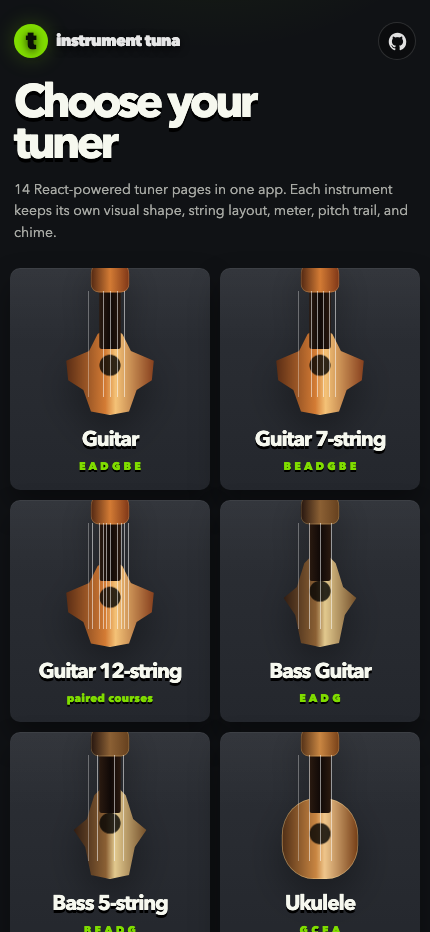
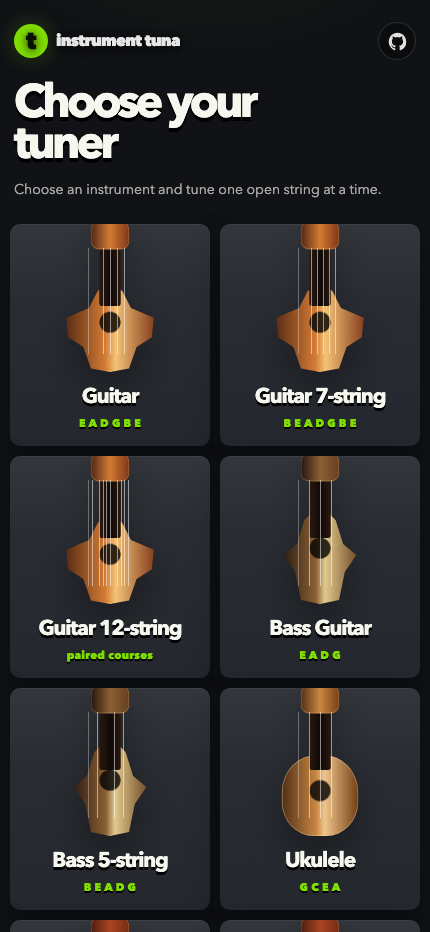
Redraw instrument heads from references

Changed region(s): [[0.0, 0.1867, 0.9977, 1.0]]

diff --git a/src/main.jsx b/src/main.jsx
@@ -24,11 +24,82 @@ function clamp(value, min, max) { return Math.min(max, Math.max(min, value)); }
 function meterPosition(cents) { return 50 + clamp(cents, -METER_RANGE_CENTS, METER_RANGE_CENTS) * (METER_TRAVEL_PERCENT / METER_RANGE_CENTS); }
 function pointerColorForCents(cents) { return Math.abs(cents) <= 5 ? 'var(--green)' : Math.abs(cents) <= 15 ? 'var(--yellow)' : 'var(--red)'; }
 function trailColorForCents(cents) { return Math.abs(cents) <= 5 ? TRAIL_COLORS.green : Math.abs(cents) <= 15 ? TRAIL_COLORS.yellow : TRAIL_COLORS.red; }
-function normalizeStringIds(strings) {
+const LAYOUTS = {
+  'guitar-6': [
+    ['left', 2], ['left', 1], ['left', 0], ['right', 0], ['right', 1], ['right', 2]
+  ],
+  'guitar-7': [
+    ['left', 2], ['left', 1], ['left', 0], ['right', 0], ['right', 1], ['right', 2], ['right', 3]
+  ],
+  'guitar-12': [
+    ['left', 5], ['left', 4], ['left', 3], ['left', 2], ['left', 1], ['left', 0],
+    ['right', 0], ['right', 1], ['right', 2], ['right', 3], ['right', 4], ['right', 5]
+  ],
+  'bass-4': [
+    ['left', 3], ['left', 2], ['left', 1], ['left', 0]
+  ],
+  'bass-5': [
+    ['left', 2], ['left', 1], ['left', 0], ['right', 0], ['right', 1]
+  ],
+  ukulele: [
+    ['left', 1], ['left', 0], ['right', 0], ['right', 1]
+  ],
+  violin: [
+    ['left', 1], ['left', 0], ['right', 0], ['right', 1]
+  ],
+  viola: [
+    ['left', 1], ['left', 0], ['right', 0], ['right', 1]
+  ],
+  cello: [
+    ['left', 1], ['left', 0], ['right', 0], ['right', 1]
+  ],
+  cavaquinho: [
+    ['left', 1], ['left', 0], ['right', 0], ['right', 1]
+  ],
+  mandolin: [
+    ['left', 3], ['left', 2], ['left', 1], ['left', 0], ['right', 0], ['right', 1], ['right', 2], ['right', 3]
+  ],
+  balalaika: [
+    ['left', 0], ['left', 1], ['left', 2]
+  ],
+  'banjo-4': [
+    ['left', 1], ['left', 0], ['right', 0], ['right', 1]
+  ],
+  'banjo-5': [
+    ['left', 0], ['left', 1], ['left', 2], ['right', 0], ['right', 1]
+  ]
+};
+
+function normalizeStringIds(strings, instrumentId) {
   const counts = {};
-  return strings.map((item) => {
+  const layout = LAYOUTS[instrumentId] || [];
+  const maxRow = Math.max(0, ...layout.map((item) => item?.[1] || 0));
+  const custom = {
+    ukulele: { buttonTopBase: 68, buttonSpacing: 114, pegTopBase: 88, pegSpacing: 118 },
+    'bass-4': { buttonTopBase: 58, buttonSpacing: 72, pegTopBase: 64, pegSpacing: 58 },
+    balalaika: { buttonTopBase: 88, buttonSpacing: 58, pegTopBase: 74, pegSpacing: 58 },
+    violin: { buttonTopBase: 116, buttonSpacing: 62, pegTopBase: 80, pegSpacing: 48 },
+    viola: { buttonTopBase: 116, buttonSpacing: 62, pegTopBase: 80, pegSpacing: 48 },
+    cello: { buttonTopBase: 116, buttonSpacing: 62, pegTopBase: 80, pegSpacing: 48 }
+  }[instrumentId] || {};
+  const buttonSpacing = custom.buttonSpacing ?? (strings.length >= 10 ? 36 : strings.length >= 7 ? 52 : strings.length >= 5 ? 70 : strings.length <= 3 ? 58 : 96);
+  const buttonTopBase = custom.buttonTopBase ?? (strings.length <= 3 ? 110 : strings.length >= 10 ? 48 : strings.length >= 7 ? 56 : strings.length >= 5 ? 78 : 76);
+  const pegSpacing = custom.pegSpacing ?? (strings.length >= 10 ? 29 : strings.length >= 7 ? 39 : strings.length >= 5 ? 48 : strings.length <= 3 ? 58 : 56);
+  const pegTopBase = custom.pegTopBase ?? (strings.length <= 3 ? 90 : strings.length >= 10 ? 50 : strings.length >= 7 ? 58 : strings.length >= 5 ? 72 : 72);
+  return strings.map((item, index) => {
     counts[item.note] = (counts[item.note] || 0) + 1;
-    return { ...item, id: `${item.note}-${counts[item.note]}` };
+    const [side, row] = layout[index] || [index % 2 === 0 ? 'left' : 'right', Math.floor(index / 2)];
+    return {
+      ...item,
+      id: `${item.note}-${counts[item.note]}`,
+      buttonLayout: {
+        side,
+        row,
+        maxRow,
+        buttonTop: buttonTopBase + row * buttonSpacing,
+        pegTop: pegTopBase + row * pegSpacing
+      }
+    };
   });
 }
 function hashToId() {
@@ -58,7 +129,7 @@ function Home() {
       </nav>
       <header className="hero">
         <h1>Choose your tuner</h1>
-        <p>14 React-powered tuner pages in one app. Each instrument keeps its own visual shape, string layout, meter, pitch trail, and chime.</p>
+        <p>Choose an instrument and tune one open string at a time.</p>
       </header>
       <section className="instrument-grid" aria-label="Choose an instrument">
         {instrumentList.map((instrument) => <InstrumentCard key={instrument.id} instrument={instrument} />)}
@@ -87,7 +158,7 @@ function InstrumentThumb({ instrument }) {
 
 function Tuner({ id }) {
   const instrument = instruments[id] || instruments['guitar-6'];
-  const strings = useMemo(() => normalizeStringIds(instrument.strings), [instrument]);
+  const strings = useMemo(() => normalizeStringIds(instrument.strings, id), [instrument, id]);
   const [manualString, setManualString] = useState(null);
   const [reading, setReading] = useState(null);
   const [status, setStatus] = useState('Play an open string');
@@ -367,15 +438,13 @@ function ScaleTicks({ activeTick }) {
 }
 
 function NoteButton({ string, index, count, active, onClick }) {
-  const side = index % 2 === 0 ? 'left' : 'right';
-  const row = Math.floor(index / 2);
-  const rows = Math.ceil(count / 2);
-  const top = count >= 10 ? 42 + row * 42 : count >= 7 ? 42 + row * 56 : count >= 5 ? 50 + row * 72 : count <= 3 ? 86 + row * 120 : 58 + row * 96;
+  const layout = string.buttonLayout || fallbackLayout(index, count);
+  const side = layout.side;
+  const top = layout.buttonTop;
   return <button className={`note-button note-${side} ${active ? 'active' : ''}`} style={{ top }} onClick={onClick}><span>{string.key}</span></button>;
 }
 
 function InstrumentVisual({ instrument, strings }) {
-  const rows = Math.ceil(strings.length / 2);
   return (
     <>
       <div className="instrument-body" aria-hidden="true"><div className="body-shine" /><div className="soundhole" /><div className="tailpiece" /></div>
@@ -383,15 +452,23 @@ function InstrumentVisual({ instrument, strings }) {
         <div className="wood" /><div className="brand-text">{instrument.brand}</div><div className="nut" /><div className="fretboard" />
         {strings.map((string, index) => {
           const x = strings.length <= 1 ? 50 : 16 + (68 / (strings.length - 1)) * index;
-          const side = index % 2 === 0 ? 'left' : 'right';
-          const row = Math.floor(index / 2);
-          const top = 54 + row * (rows > 5 ? 32 : rows > 4 ? 38 : 56);
+          const layout = string.buttonLayout || fallbackLayout(index, strings.length);
+          const side = layout.side;
+          const top = layout.pegTop;
           const weight = strings.length >= 10 ? 1 : index < strings.length / 2 ? 2.1 : 1.35;
           return <React.Fragment key={string.id}><div className="string" style={{ '--x': `${x}%`, '--string-weight': `${weight}px` }} /><div className={`peg peg-${side}`} style={{ top }} /></React.Fragment>;
         })}
       </div>
     </>
   );
+}
+
+function fallbackLayout(index, count) {
+  const row = Math.floor(index / 2);
+  const rows = Math.ceil(count / 2);
+  const buttonTop = count >= 10 ? 42 + row * 42 : count >= 7 ? 42 + row * 56 : count >= 5 ? 50 + row * 72 : count <= 3 ? 86 + row * 120 : 58 + row * 96;
+  const pegTop = 54 + row * (rows > 5 ? 32 : rows > 4 ? 38 : 56);
+  return { side: index % 2 === 0 ? 'left' : 'right', buttonTop, pegTop };
 }
 
 function PitchTrail({ notes }) {

diff --git a/src/styles.css b/src/styles.css
@@ -298,3 +298,181 @@ button {
   .instrument-card h2 { font-size: 21px; }
   .instrument-card small { font-size: 11px; }
 }
+
+/* Instrument-specific redraws based on tmp reference screenshots. */
+.instrument-ukulele .instrument-body { display: none; }
+.instrument-ukulele .headstock {
+  width: 158px;
+  height: 332px;
+  bottom: 86px;
+}
+.instrument-ukulele .wood {
+  width: 158px;
+  height: 332px;
+  clip-path: polygon(2% 4%, 35% 4%, 50% 0, 65% 4%, 98% 4%, 98% 73%, 88% 82%, 84% 100%, 16% 100%, 12% 82%, 2% 73%);
+  border-radius: 0;
+  background: radial-gradient(ellipse at 50% 16%, rgba(255, 231, 169, 0.42), transparent 19%), repeating-linear-gradient(90deg, rgba(255,255,255,0.09) 0 2px, transparent 2px 10px), linear-gradient(90deg, var(--wood-2), var(--wood-3) 28%, var(--wood-1) 50%, #d47a32 72%, #8b441f);
+}
+.instrument-ukulele .brand-text {
+  top: 50px;
+  color: rgba(255, 246, 214, 0.94);
+  font-size: 16px;
+}
+.instrument-ukulele .nut { left: 18px; right: 18px; bottom: 78px; }
+.instrument-ukulele .fretboard { left: 34px; right: 34px; bottom: -86px; height: 168px; }
+.instrument-ukulele .string { top: 110px; bottom: -86px; }
+.instrument-ukulele .peg { width: 34px; height: 34px; }
+.instrument-ukulele .peg::before { top: 12px; width: 46px; height: 10px; }
+.instrument-ukulele .peg::after { top: -12px; width: 36px; height: 58px; }
+.instrument-ukulele .peg-left { left: 18px; }
+.instrument-ukulele .peg-right { right: 18px; }
+.instrument-ukulele .peg-left::before { right: 18px; }
+.instrument-ukulele .peg-right::before { left: 18px; }
+.instrument-ukulele .peg-left::after { right: 42px; }
+.instrument-ukulele .peg-right::after { left: 42px; }
+
+.instrument-guitar-6 .headstock {
+  width: 176px;
+  height: 342px;
+}
+.instrument-guitar-6 .wood {
+  width: 176px;
+  height: 342px;
+  clip-path: polygon(22% 0, 78% 0, 88% 25%, 82% 74%, 64% 100%, 36% 100%, 18% 74%, 12% 25%);
+  border-radius: 24px 24px 18px 18px;
+  background: radial-gradient(ellipse at 50% 12%, rgba(255,240,190,0.28), transparent 21%), repeating-linear-gradient(115deg, rgba(255,255,255,0.06) 0 2px, transparent 2px 12px), linear-gradient(90deg, #5b2415, #a94d25 38%, #d18a52 50%, #4c1c12);
+}
+
+.instrument-guitar-7 .headstock,
+.instrument-guitar-12 .headstock {
+  width: 166px;
+  height: 342px;
+}
+.instrument-guitar-7 .wood,
+.instrument-guitar-12 .wood {
+  width: 166px;
+  height: 342px;
+  clip-path: polygon(60% 0, 82% 8%, 76% 100%, 20% 100%, 31% 49%, 36% 10%);
+  border-radius: 20px 28px 10px 12px;
+  background: radial-gradient(ellipse at 50% 20%, rgba(255,255,255,0.12), transparent 24%), linear-gradient(90deg, #070808, #222426 52%, #0b0c0d);
+  border-color: rgba(210, 214, 205, 0.6);
+}
+.instrument-guitar-12 .wood {
+  clip-path: polygon(27% 0, 73% 0, 87% 27%, 78% 100%, 22% 100%, 13% 27%);
+}
+.instrument-guitar-7 .brand-text,
+.instrument-guitar-12 .brand-text {
+  color: rgba(235,238,230,0.72);
+}
+
+.instrument-bass-4 .headstock,
+.instrument-bass-5 .headstock {
+  width: 164px;
+  height: 350px;
+}
+.instrument-bass-4 .wood,
+.instrument-bass-5 .wood {
+  width: 164px;
+  height: 350px;
+  clip-path: polygon(52% 0, 75% 9%, 81% 30%, 71% 86%, 55% 100%, 35% 94%, 31% 62%, 22% 52%, 35% 41%, 34% 11%);
+  border-radius: 45% 34% 18% 25%;
+  background: radial-gradient(circle at 52% 18%, rgba(255,244,208,0.28), transparent 20%), linear-gradient(90deg, #8e602d, #e1bd78 45%, #c68c45 75%, #6e421e);
+}
+.instrument-bass-5 .wood {
+  clip-path: polygon(31% 0, 66% 4%, 85% 42%, 74% 100%, 25% 100%, 12% 40%);
+}
+.instrument-bass-4 .brand-text,
+.instrument-bass-5 .brand-text { color: rgba(72,42,18,0.52); text-shadow: none; }
+
+.instrument-violin .headstock,
+.instrument-viola .headstock,
+.instrument-cello .headstock {
+  width: 144px;
+  height: 360px;
+  bottom: 78px;
+}
+.instrument-violin .wood,
+.instrument-viola .wood,
+.instrument-cello .wood {
+  width: 144px;
+  height: 360px;
+  clip-path: polygon(50% 0, 67% 8%, 78% 22%, 70% 42%, 59% 54%, 60% 100%, 40% 100%, 41% 54%, 30% 42%, 22% 22%, 33% 8%);
+  border-radius: 50% 50% 18px 18px;
+  background: radial-gradient(circle at 50% 15%, rgba(255,223,160,0.22), transparent 24%), linear-gradient(90deg, #6a2b16, #b65d2b 45%, #d08343 57%, #5b2112);
+}
+.instrument-violin .brand-text,
+.instrument-viola .brand-text,
+.instrument-cello .brand-text { display: none; }
+.instrument-violin .fretboard,
+.instrument-viola .fretboard,
+.instrument-cello .fretboard { left: 43px; right: 43px; }
+
+.instrument-cavaquinho .headstock {
+  width: 174px;
+  height: 326px;
+}
+.instrument-cavaquinho .wood {
+  width: 174px;
+  height: 326px;
+  clip-path: polygon(17% 0, 83% 0, 92% 18%, 78% 100%, 22% 100%, 8% 18%);
+  border-radius: 28px 28px 10px 10px;
+  background: linear-gradient(90deg, #7a391b, #c06a31 46%, #d48a45 54%, #6a2d16);
+}
+.instrument-cavaquinho .wood::before,
+.instrument-cavaquinho .wood::after {
+  content: "";
+  position: absolute;
+  top: 88px;
+  width: 28px;
+  height: 152px;
+  border-radius: 999px;
+  background: #080706;
+  box-shadow: inset 0 0 0 2px rgba(255,210,130,0.16);
+}
+.instrument-cavaquinho .wood::before { left: 45px; }
+.instrument-cavaquinho .wood::after { right: 45px; }
+.instrument-cavaquinho .brand-text { display: none; }
+
+.instrument-mandolin .headstock {
+  width: 174px;
+  height: 344px;
+}
+.instrument-mandolin .wood {
+  width: 174px;
+  height: 344px;
+  clip-path: polygon(18% 0, 82% 0, 85% 100%, 50% 86%, 15% 100%);
+  border-radius: 18px 18px 10px 10px;
+  background: repeating-linear-gradient(90deg, rgba(255,255,255,0.06) 0 2px, transparent 2px 11px), linear-gradient(90deg, #6b2e18, #b65f32 48%, #7b341a);
+}
+
+.instrument-balalaika .instrument-body { display: none; }
+.instrument-balalaika .headstock {
+  width: 150px;
+  height: 348px;
+}
+.instrument-balalaika .wood {
+  width: 150px;
+  height: 348px;
+  clip-path: polygon(28% 0, 72% 0, 83% 14%, 72% 100%, 28% 100%, 17% 14%);
+  border-radius: 18px 18px 8px 8px;
+  background: linear-gradient(90deg, #7b3c1e, #bd6b37 48%, #8b4422);
+}
+.instrument-balalaika .brand-text { display: none; }
+
+.instrument-banjo-4 .instrument-body,
+.instrument-banjo-5 .instrument-body { bottom: -90px; }
+.instrument-banjo-4 .headstock,
+.instrument-banjo-5 .headstock {
+  width: 154px;
+  height: 326px;
+}
+.instrument-banjo-4 .wood,
+.instrument-banjo-5 .wood {
+  width: 154px;
+  height: 326px;
+  clip-path: polygon(50% 0, 63% 7%, 75% 4%, 88% 18%, 76% 100%, 24% 100%, 12% 18%, 25% 4%, 37% 7%);
+  border-radius: 18px 18px 8px 8px;
+  background: linear-gradient(90deg, #6d321a, #b76332 48%, #79391d);
+}
+.instrument-banjo-4 .brand-text,
+.instrument-banjo-5 .brand-text { color: rgba(255,246,214,0.75); }
